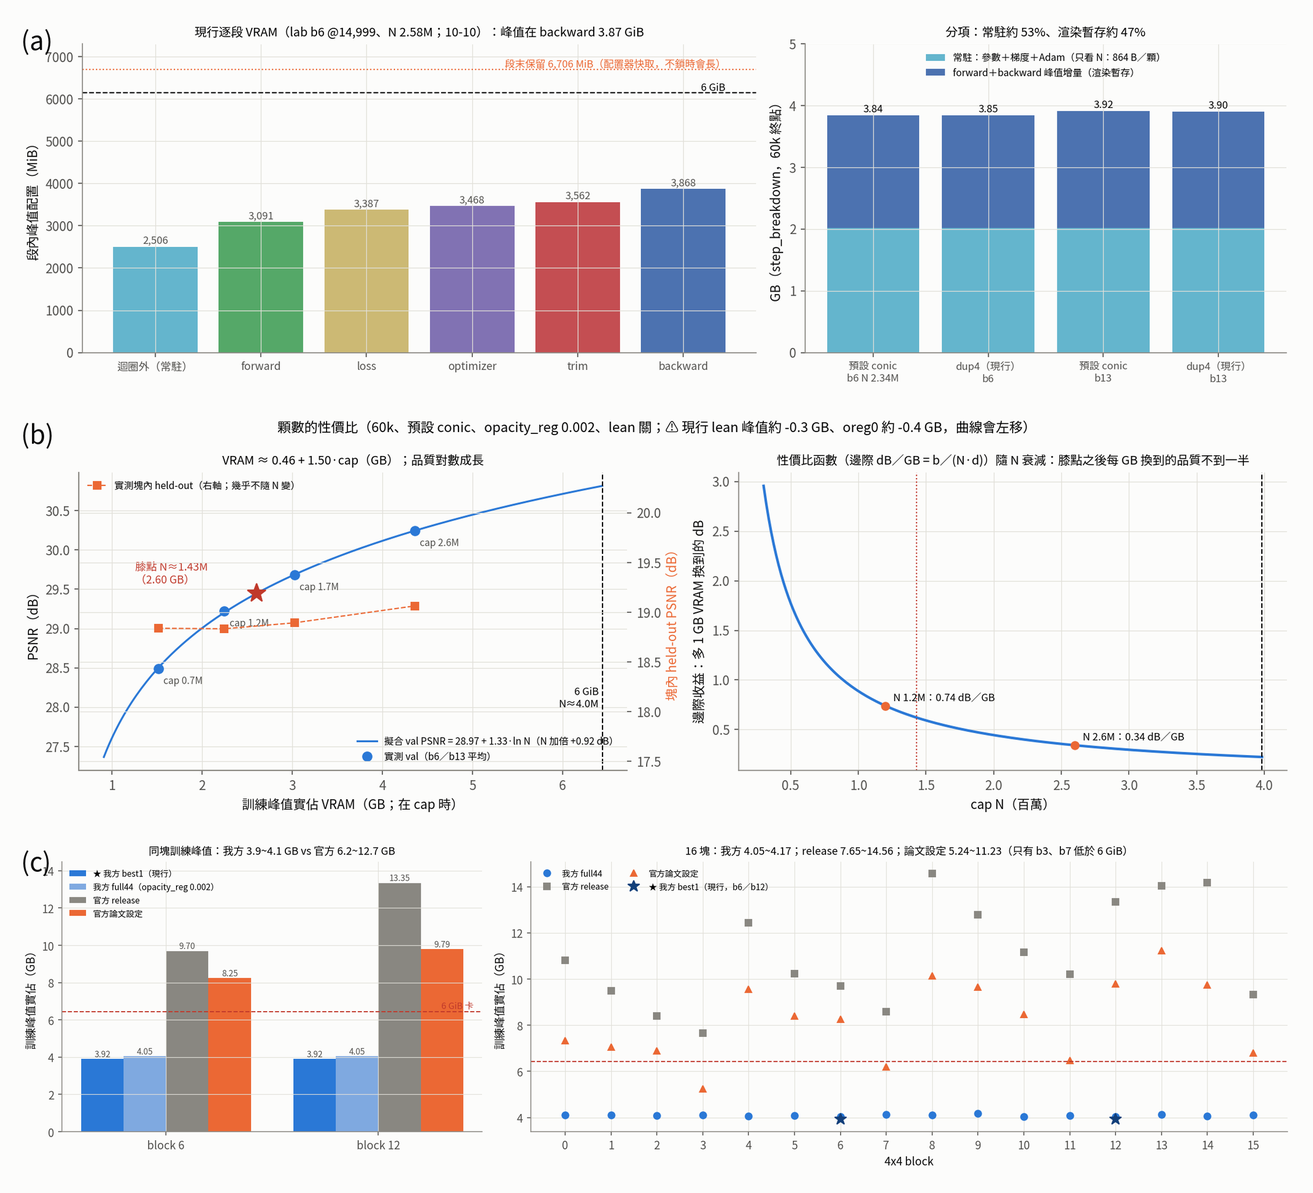
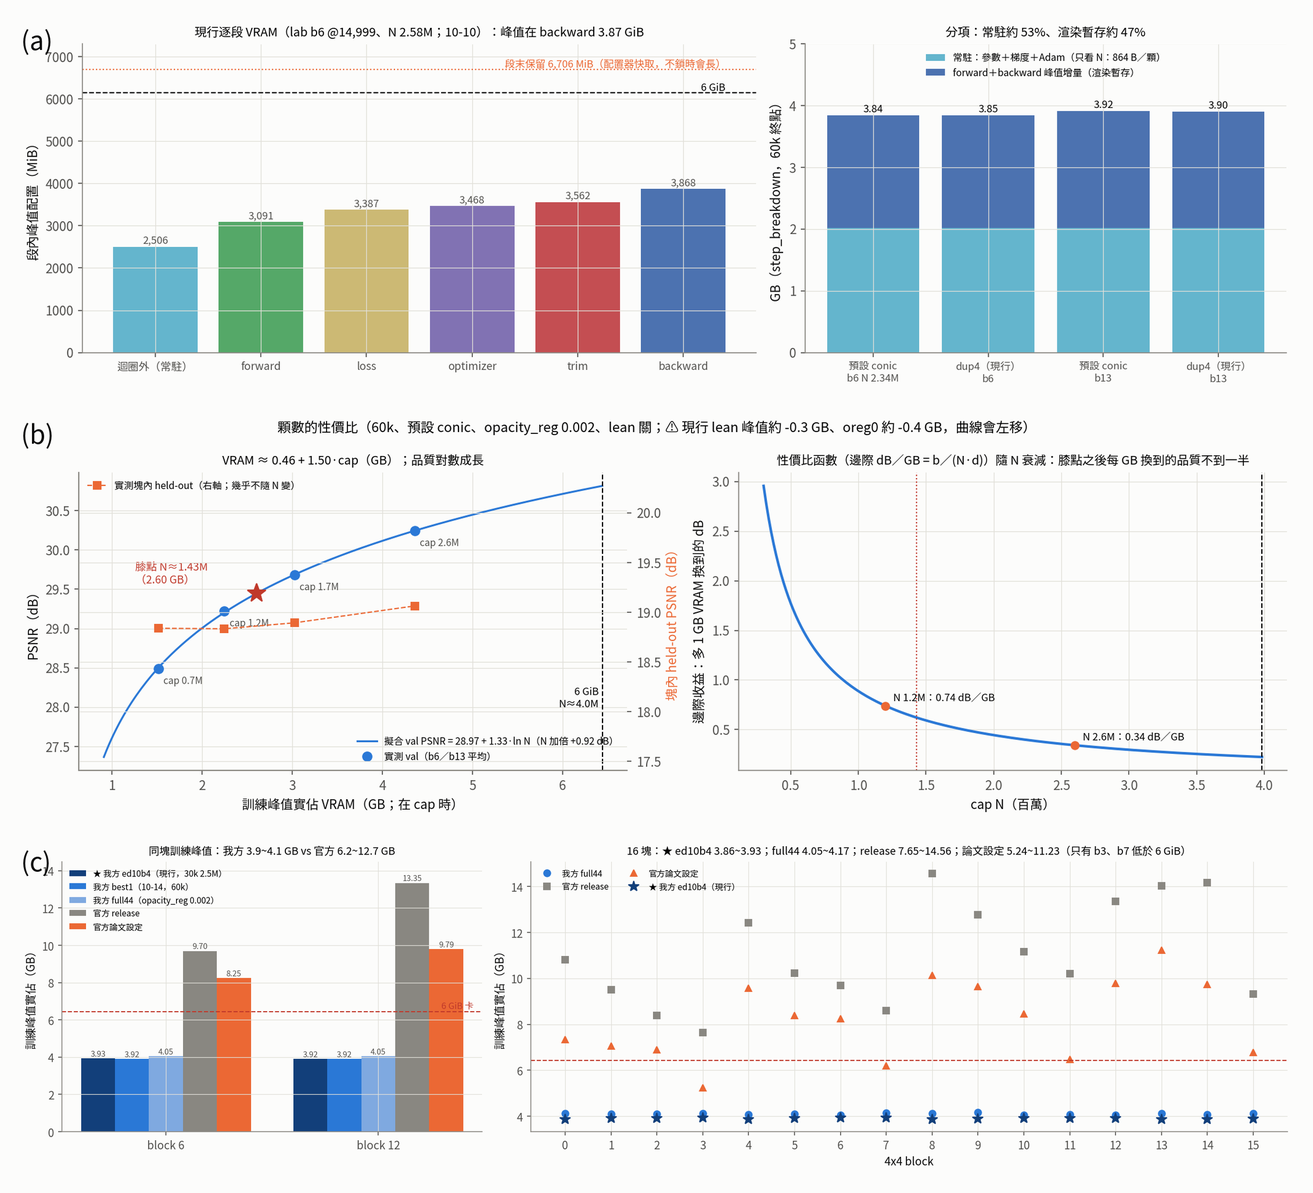
紀錄：時間／峰值／存儲表與圖加上現行最佳 ed10b4（01(d) 逐塊時間、02(c) 訓練峰值、03(d) 存儲、09(a) 合併模型、研究總覽對官方表）；部署 6.01 GiB＝release 的 1.79 倍照實列
Claude-Session: https://claude.ai/code/session_01ASvjmyPMC4F37W41o8s8Aq

diff --git a/tools/plot_analysis.py b/tools/plot_analysis.py
@@ -227,22 +227,23 @@ LBL3 = ["★ 我方 4x4", "官方 release", "官方論文設定"]
 
 def n09_full44_merged(d):
     """合併模型、官方 741 幀 held-out，三者同一支工具（tools/eval_official_test.py）。"""
-    q = {"PSNR": [27.739, 27.261, 27.280], "SSIM": [0.8790, 0.8671, 0.8697], "LPIPS（越低越好）": [0.1293, 0.1540, 0.1467]}
-    r = {"N（百萬）": [17.63, 24.48, 24.72], "渲染 FPS": [35.6, 21.9, 21.9],
-         "16 塊總 N（百萬）": [37.44, 129.55, 87.89]}
+    # ★ 10-24 加上現行最佳 ed10b4（g44s30km25_best1maskdistrfed10b4；實驗分析 20 §7）；16 塊總 N＝16 x 2.25M
+    q = {"PSNR": [27.868, 27.739, 27.261, 27.280], "SSIM": [0.8785, 0.8790, 0.8671, 0.8697], "LPIPS（越低越好）": [0.1153, 0.1293, 0.1540, 0.1467]}
+    r = {"N（百萬）": [27.83, 17.63, 24.48, 24.72], "渲染 FPS": [40.2, 35.6, 21.9, 21.9],
+         "16 塊總 N（百萬）": [36.0, 37.44, 129.55, 87.89]}
     fig, axs = plt.subplots(1, 6, figsize=(17, 3.6))
-    cols = [C1, MUTED, C2]
+    cols = ["#123f7a", C1, MUTED, C2]
     for ax, (k, v) in zip(axs, list(q.items()) + list(r.items())):
-        bars = ax.bar(range(3), v, color=cols, width=0.65)
+        bars = ax.bar(range(4), v, color=cols, width=0.7)
         fmt = "{:.3f}" if max(v) < 1 else ("{:.2f}" if max(v) < 50 else "{:.1f}")
         barlabels(ax, bars, fmt=fmt, size=8)
         lo = min(v); hi = max(v)
         if k in ("PSNR", "SSIM", "LPIPS（越低越好）"):
             ax.set_ylim(lo - (hi - lo) * 1.2, hi + (hi - lo) * 0.6)
-        ax.set_xticks(range(3)); ax.set_xticklabels(["我方", "release", "論文\n設定"], fontsize=8.5)
+        ax.set_xticks(range(4)); ax.set_xticklabels(["★ed10b4", "full44", "release", "論文\n設定"], fontsize=8)
         ax.set_title(k, fontsize=10)
-    fig.suptitle("合併模型・官方 741 幀 held-out（三者同一支評分工具）：我方三項全贏、顆數少 28%、FPS 1.6 倍"
-                 "　（PSNR 領先保守估計 +0.1~+0.5 dB：見面板 d 的光柵器偏差）", fontsize=10.5)
+    fig.suptitle("合併模型・官方 741 幀 held-out（同一支評分工具）：★ 現行 ed10b4 27.868／.8785／.1153、FPS 1.8 倍（30k、7.3 h）；full44 三項全贏官方、顆數少 28%"
+                 "\n（PSNR 領先保守估計：見面板 d 的光柵器偏差；ed10b4 顆數比 release 多 14%）", fontsize=10)
     save(fig, d, "n09_full44_merged.png")
 
 
@@ -872,25 +873,35 @@ LOAD44 = {
     "pap": [6.167, 5.117, 6.596, 5.273, 5.741, 6.653, 7.938, 6.273, 6.481, 7.697, 8.131, 6.909, 7.450, 8.776, 8.479, 6.643],
 }
 BEST0 = {"peak": {6: 3.95, 12: 3.92}, "load": {6: 1.893, 12: 1.859}}   # g44_best0 60k（台帳峰值實佔 GB；chart_data/load.txt ③ 中位，百萬）
-BEST1 = {"peak": {6: 3.92, 12: 3.92}, "load": {6: 1.259, 12: 1.212}}   # ★ 現行 g44_best1 60k（10-14 台帳峰值實佔；chart_data/load.txt 精確中位）
+BEST1 = {"peak": {6: 3.92, 12: 3.92}, "load": {6: 1.259, 12: 1.212}}   # g44_best1 60k（10-14 台帳峰值實佔；chart_data/load.txt 精確中位）
+# ★ 10-24 現行最佳 ed10b4 全場景（g44s30km25_best1maskdistrfed10b4：遮罩＋dist100＋30k＋cap 2.5M＋融合 Adam＋累加式 trim＋熵只往 0 推、10k 後切回 ×4）
+#   min＝純訓練（train_status val step0 → 30k，labrun/time_1024.py；與台帳 START→DONE 差 ≤1 分）；pk＝台帳峰值實佔 GB
+#   fs＝再加融合 SSIM（現行最快；只有 b0／b6 實測）
+ED = {"min": [1712 / 60, 1689 / 60, 1545 / 60, 1705 / 60, 1612 / 60, 1728 / 60, 1586 / 60, 1717 / 60,
+              1606 / 60, 1600 / 60, 1582 / 60, 1668 / 60, 1767 / 60, 1493 / 60, 1549 / 60, 1785 / 60],
+      "pk": [3.87, 3.92, 3.90, 3.93, 3.86, 3.90, 3.93, 3.93, 3.87, 3.89, 3.90, 3.90, 3.92, 3.87, 3.87, 3.89],
+      "fs_min": {0: 1501 / 60, 6: 1380 / 60}}
 
 
 def n01_blocktime(d):
     """逐塊訓練時間（4x4、60k、lab 3090）：我方 full44 vs 官方 release vs 論文設定（原 09(b) 右）。"""
-    x = np.arange(16); wd = 0.27
+    x = np.arange(16); wd = 0.21
     fig, ax = plt.subplots(figsize=(14, 3.8))
-    for k, c, dx, lb in [("omin", C1, -wd, "我方 full44（舊配方）"), ("rmin", MUTED, 0, LBL3[1]), ("pmin", C2, wd, LBL3[2])]:
+    ax.bar(x - 1.5 * wd, [m / 60 for m in ED["min"]], wd, color="#123f7a", label="★ 我方 ed10b4（現行最佳，30k）")
+    for k, c, dx, lb in [("omin", C1, -0.5 * wd, "我方 full44（10-05 舊配方，60k）"), ("rmin", MUTED, 0.5 * wd, LBL3[1]), ("pmin", C2, 1.5 * wd, LBL3[2])]:
         bars = ax.bar(x + dx, [m / 60 for m in F44[k]], wd, color=c, label=lb)
         if k != "omin":
             for b_, e in zip(bars, F44["rext" if k == "rmin" else "pext"]):
                 if e > 2000:
                     b_.set_hatch("///"); b_.set_alpha(0.45)
-    # ★ 10-15 現行 best1 b6 完整 60k 獨佔實測 68.0 分（`task_best1_time.sh full 6`，量測期間卡上無其他行程；`15` §2）
-    ax.plot([6 - wd], [68.0 / 60], marker="*", color="#123f7a", ms=16, lw=0, label="★ 我方 best1（現行，b6 實測 68 分）", zorder=5)
-    ax.annotate("68 分", (6 - wd, 68.0 / 60), xytext=(-6, -16), textcoords="offset points", fontsize=8, color="#123f7a", ha="center")
-    ax.set_xticks(x); ax.set_xlabel("4x4 block"); ax.set_ylabel("訓練時間（h）"); ax.legend(fontsize=8, loc="upper left")
-    ax.set_title("逐塊訓練時間（斜線＝期間同卡外部佔用 > 2 GB，不可引用）：block 0~9 乾淨的合計 我方 full44 19.3 h vs release 40.3 h（0.48 倍）\n"
-                 "★ 現行 best1 b6 實測 68 分 vs 同塊 release 240 分（0.28 倍）；長條的我方＝full44（opacity_reg 0.002 舊配方）", fontsize=9.5)
+    fb = sorted(ED["fs_min"])
+    ax.plot([b - 1.5 * wd for b in fb], [ED["fs_min"][b] / 60 for b in fb], marker="*", color="#e8a33d", ms=13, lw=0,
+            label="＋融合 SSIM（現行最快；b0／b6 實測）", zorder=5)
+    ax.set_xticks(x); ax.set_xlabel("4x4 block"); ax.set_ylabel("訓練時間（h）"); ax.legend(fontsize=8, loc="upper left", ncol=2)
+    e09 = sum(ED["min"][:10]) / 60
+    ax.set_title(f"逐塊訓練時間（斜線＝期間同卡外部佔用 > 2 GB，不可引用）：block 0~9 乾淨的合計 ★ ed10b4 {e09:.2f} h／full44 19.3 h／release 40.3 h"
+                 f"（ed10b4 是 release 的 {e09 / 40.3:.2f} 倍）\n"
+                 "16 塊合計 ed10b4 7.32 h（每塊 25~30 分）；＋融合 SSIM b6 23.0 分、b0 25.0 分（再 −13%／−12%）", fontsize=9.5)
     save(fig, d, "n01_blocktime.png")
 
 
@@ -898,12 +909,13 @@ def n02_peak3(d):
     """訓練峰值（GB）：現行 best1（b6／b12）、full44 舊配方、官方 release／論文設定（同塊）；16 塊全貌。"""
     fig, axs = plt.subplots(1, 2, figsize=(16, 4.3), gridspec_kw={"width_ratios": [1, 1.8]})
     ax = axs[0]
-    grp = [("★ 我方 best1（現行）", [BEST1["peak"][6], BEST1["peak"][12]], C1),
+    grp = [("★ 我方 ed10b4（現行，30k 2.5M）", [ED["pk"][6], ED["pk"][12]], "#123f7a"),
+           ("我方 best1（10-14，60k）", [BEST1["peak"][6], BEST1["peak"][12]], C1),
            ("我方 full44（opacity_reg 0.002）", [F44["opk"][6], F44["opk"][12]], "#7fa9e0"),
            ("官方 release", [F44["rpk"][6], F44["rpk"][12]], MUTED), ("官方論文設定", [F44["ppk"][6], F44["ppk"][12]], C2)]
-    x = np.arange(2); wd = 0.2
+    x = np.arange(2); wd = 0.16
     for k, (lb, v, c) in enumerate(grp):
-        barlabels(ax, ax.bar(x + (k - 1.5) * wd, v, wd, color=c, label=lb), "{:.2f}", size=7.5)
+        barlabels(ax, ax.bar(x + (k - 2) * wd, v, wd, color=c, label=lb), "{:.2f}", size=7)
     ax.axhline(6.44, color="#c0392b", lw=1, ls="--"); ax.text(1.45, 6.6, "6 GiB 卡", color="#c0392b", fontsize=8, ha="right")
     ax.set_xticks(x); ax.set_xticklabels(["block 6", "block 12"]); ax.set_ylabel("訓練峰值實佔（GB）"); ax.legend(fontsize=7.5, loc="upper left")
     ax.set_ylim(0, 14.5); ax.set_title("同塊訓練峰值：我方 3.9~4.1 GB vs 官方 6.2~12.7 GB", fontsize=9.5)
@@ -911,35 +923,36 @@ def n02_peak3(d):
     xx = np.arange(16)
     for k, c, mk, lb in [("opk", C1, "o", "我方 full44"), ("rpk", MUTED, "s", LBL3[1]), ("ppk", C2, "^", LBL3[2])]:
         ax.plot(xx, F44[k], marker=mk, color=c, lw=0, ms=6, label=lb)
-    ax.plot([6, 12], [BEST1["peak"][6], BEST1["peak"][12]], marker="*", color="#123f7a", lw=0, ms=11, label="★ 我方 best1（現行，b6／b12）")
+    ax.plot(xx, ED["pk"], marker="*", color="#123f7a", lw=0, ms=10, label="★ 我方 ed10b4（現行）")
     ax.axhline(6.44, color="#c0392b", lw=1, ls="--")
     ax.set_xticks(xx); ax.set_xlabel("4x4 block"); ax.set_ylabel("訓練峰值實佔（GB）"); ax.legend(fontsize=7.5, ncol=2)
-    ax.set_title("16 塊：我方 4.05~4.17；release 7.65~14.56；論文設定 5.24~11.23（只有 b3、b7 低於 6 GiB）", fontsize=9.5)
+    ax.set_title("16 塊：★ ed10b4 3.86~3.93；full44 4.05~4.17；release 7.65~14.56；論文設定 5.24~11.23（只有 b3、b7 低於 6 GiB）", fontsize=9.5)
     save(fig, d, "n02_peak3.png")
 
 
 def n03_official(d):
     """成果檔與部署大小：單塊 ckpt（b6）、合併 ckpt、部署（只算參數）——我方 vs 官方（`citygs_official_storage.log`）。"""
     fig, axs = plt.subplots(1, 3, figsize=(17, 4.2))
-    lab = ["★ 我方", "官方 release", "官方論文設定"]; col = [C1, MUTED, C2]
+    lab = ["★ 我方\ned10b4", "我方\nfull44", "官方\nrelease", "官方\n論文設定"]; col = ["#123f7a", C1, MUTED, C2]
     ax = axs[0]
-    v = [1.52, 3.0, 2.3]; n = [2.34, 7.11, 5.31]          # GiB（官方 storage log 的「GB」是 2^30；我方 1,628,658,586 B）
+    # GiB（官方 storage log 的「GB」是 2^30；full44 1,628,658,586 B；ed10b4 b6 30k ckpt 2.25M 顆 x 696 B，chart_data/storage.txt「1.5 GB」）
+    v = [2.25e6 * 696 / 2**30, 1.52, 3.0, 2.3]; n = [2.25, 2.34, 7.11, 5.31]
     b = ax.bar(lab, v, color=col); barlabels(ax, b, "{:.2f} GiB", size=8)
-    for i in range(3):
-        ax.text(i, v[i] / 2, f"N {n[i]:.2f}M\n{2**30 * v[i] / (n[i] * 1e6):.0f} B／顆", ha="center", color="white", fontsize=8)
-    ax.set_ylabel("GiB"); ax.set_title("單塊 60k ckpt（block 6；含 Adam）\n我方 SH3 696 B／顆；官方 SH2 456 B／顆（參數 148＋Adam 296＋緩衝 12）", fontsize=9)
+    for i in range(4):
+        ax.text(i, v[i] / 2, f"N {n[i]:.2f}M\n{2**30 * v[i] / (n[i] * 1e6):.0f} B／顆", ha="center", color="white", fontsize=7.5)
+    ax.set_ylabel("GiB"); ax.set_title("單塊 ckpt（block 6；含 Adam；ed10b4 30k、其餘 60k）\n我方 SH3 696 B／顆；官方 SH2 456 B／顆（參數 148＋Adam 296＋緩衝 12）", fontsize=9)
     ax = axs[1]
-    v = [11.43, 40.5, 29.0]; n = [17.63, 24.48, 24.72]    # GiB（我方 merged.ckpt 11,703 MiB）
+    v = [19371580895 / 2**30, 11.43, 40.5, 29.0]; n = [27.83, 17.63, 24.48, 24.72]    # GiB（ed10b4 merged.ckpt 19,371,580,895 B；full44 11,703 MiB）
     b = ax.bar(lab, v, color=col); barlabels(ax, b, "{:.1f} GiB", size=8)
-    ax.set_ylabel("GiB"); ax.set_title("合併 ckpt：官方合併時把 16 塊的優化器狀態一起疊進去（1,566 B／顆）\n=> 40.5 GiB 主要是 Adam，不是模型", fontsize=9)
+    ax.set_ylabel("GiB"); ax.set_title("合併 ckpt（含優化器狀態；我方只留各塊盒內顆粒）\n官方合併時把 16 塊的優化器狀態一起疊進去（1,566 B／顆）", fontsize=9)
     ax = axs[2]
-    per = [232, 148, 148]
-    v = [n[i] * 1e6 * per[i] / 2**30 for i in range(3)]
+    per = [232, 232, 148, 148]
+    v = [n[i] * 1e6 * per[i] / 2**30 for i in range(4)]
     b = ax.bar(lab, v, color=col); barlabels(ax, b, "{:.2f} GiB", size=8)
-    for i in range(3):
-        ax.text(i, v[i] / 2, f"{n[i]:.2f}M 顆\n× {per[i]} B", ha="center", color="white", fontsize=8)
-    ax.set_ylabel("GiB"); ax.set_title("部署（只存參數、float32）：⚠ 官方較小 —— SH2 每顆 148 B，我方 SH3 232 B\n（我方顆數少 28%，但每顆多 57%；SH 階數的取捨見佇列 sh2／1／0）", fontsize=9)
-    fig.suptitle("儲存對照官方（lab `citygs_official_storage.log`；我方 ckpt 實測檔案大小）；官方 CPU RAM 快取未量", fontsize=10)
+    for i in range(4):
+        ax.text(i, v[i] / 2, f"{n[i]:.2f}M 顆\n× {per[i]} B", ha="center", color="white", fontsize=7.5)
+    ax.set_ylabel("GiB"); ax.set_title("部署（只存參數、float32）：⚠ 官方較小 —— SH2 每顆 148 B，我方 SH3 232 B\n★ ed10b4 顆數 +14%、每顆 +57% => 部署是 release 的 1.79 倍（輕量化的待辦）", fontsize=9)
+    fig.suptitle("儲存對照官方（lab `citygs_official_storage.log`；我方 ckpt 實測檔案大小；ed10b4＝10-24 現行最佳）；官方 CPU RAM 快取未量", fontsize=10)
     save(fig, d, "n03_official.png")
 
 

diff --git a/紀錄/研究總覽.md b/紀錄/研究總覽.md
@@ -76,14 +76,16 @@ best1 60k               −0.05／−0.11       .1175／.1168   0.559／0.727   
 
 ### 對官方
 ```
-全場景（4x4 合併、官方 741 幀、同一支評分工具；⚠ 我方是 10-05 的舊配方 full44）
-                    PSNR    SSIM    LPIPS   合併 N    FPS    訓練峰值（16 塊）   訓練時間
-★ 我方 full44        27.739  0.879   0.129   17.63M   35.6   4.05~4.17 GB         19.3 h（block 0~9 乾淨）
-官方 release        27.261  0.867   0.154   24.48M   21.9   7.65~14.56 GB        40.3 h
-官方論文設定         27.280  0.870   0.147   24.72M   21.9   5.24~11.23 GB        b6 4.53 h／b12 5.98 h／b2 3.92 h（[solo] 重跑）
+全場景（4x4 合併、官方 741 幀、同一支評分工具；10-24 加上現行最佳 ed10b4，`20` §7）
+                    PSNR    SSIM    LPIPS   合併 N    FPS    訓練峰值（16 塊）   訓練時間（block 0~9 乾淨／16 塊）   部署（只存參數）
+★ 我方 ed10b4        27.868  0.8785  0.1153  27.83M   40.2   3.86~3.93 GB         4.58 h／7.32 h（30k）               6.01 GiB（SH3）
+我方 full44          27.739  0.879   0.129   17.63M   35.6   4.05~4.17 GB         19.3 h／30.7 h（60k）               3.81 GiB
+官方 release        27.261  0.867   0.154   24.48M   21.9   7.65~14.56 GB        40.3 h                              3.37 GiB（SH2）
+官方論文設定         27.280  0.870   0.147   24.72M   21.9   5.24~11.23 GB        b6 4.53 h／b12 5.98 h／b2 3.92 h（[solo] 重跑）   3.41 GiB（SH2）
 同塊（官方合併模型只換第 6／12 塊；`09` §6.2、`16` §3）
   15k＋SH1   +0.53／+0.54 dB、時間 13／12 分 vs 4.5／6.0 小時、峰值 2.08 vs 7.67／9.17 GB；幾何 F1 輸（0.441／0.653）
 ```
+- ed10b4：訓練時間 release 的 0.11 倍、峰值約一半以下、品質三項都贏；**部署是 release 的 1.79 倍**（顆數 +14%、SH3 vs SH2）＝唯一輸的資源項。再加融合 SSIM（現行最快）b6／b0 再 −13%／−12%。現行配方的每步逐段時間還沒量。
 - 官方光柵器在 8~13% 的視角把顏色算錯；我方光柵器讀官方模型正常幀約低 0.35 => 合理的 PSNR 領先約 +0.1~+0.5（全場景）、+0.2（同塊）；
   SSIM／LPIPS 與資源面的領先較穩 => `09` §0。
 

diff --git a/紀錄/實驗分析/01_訓練時間組成.md b/紀錄/實驗分析/01_訓練時間組成.md
@@ -12,7 +12,9 @@
 | (a) | 每步逐段時間（增生期；trim 按 500 步攤平）：官方 release／論文設定，加上我方近期改動逐步疊上（lean → record_reduce → 飽和跳過＋block 內先加總） | §0.1 |
 | (b) | 每步時間隨顆數線性成長（60k、只調 cap、b6／b13；lean 關）：固定項＋斜率 × N | §0.2 |
 | (c) | max_split_size_mb:128 的代價（本機兩列，09-11）與現行 lab（不鎖、不開）並列 | §0.3、`02` §2 |
-| (d) | 逐塊訓練時間（4x4、60k）：我方 full44 vs 官方 release／論文設定（原 `09`(b) 右；斜線＝同卡外部佔用 > 2 GB，不可引用）；★＝現行 best1 b6 實測 68 分（同塊 release 240 分，0.28 倍） | `09` §0.2、`15` §2 |
+| (d) | 逐塊訓練時間（4x4）：**★ 現行 ed10b4（30k）**、我方 full44（60k）vs 官方 release／論文設定（原 `09`(b) 右；斜線＝同卡外部佔用 > 2 GB，不可引用）；星號＝再加融合 SSIM（現行最快，b0／b6 實測） | `09` §0.2、`20` §7、`加速論文對照.md` §F |
+
+**10-24 更新 (d)：現行最佳 ed10b4（`20` §7）逐塊純訓練 24.9～29.8 分、16 塊 7.32 h；block 0~9 乾淨的合計 ed10b4 4.58 h vs full44 19.3 h vs release 40.3 h（0.11 倍）；同塊 b6 26.4 分 vs release 240 分（0.11 倍）。再加融合 SSIM（現行最快）b6 23.0 分、b0 25.0 分。現行配方的每步逐段時間（(a) 的格式）還沒量（逐段工具要中間 ckpt，ed10b4 只存最終）。**
 
 **10-14 對照官方（使用者要求：官方跑次的數據放進對應的我方圖表）**：**10-15 現行 best1 的乾淨計時 => `15` §2（一塊 60k 約 62.5／60.3 分鐘，best0 74.7／78.4）**。block 0~9 乾淨的合計 我方 19.3 h vs release 40.3 h（0.48 倍）。(a) 最後一列（飽和跳過＋先加總）的 60k 換塊評測已出：與 best0 平手（+0.01／+0.03）=> 可開。現行 best0 只有 b6／b12，且 10-12~14 期間同卡外部佔用時有時無 => 不列 best0 的時間。
 

diff --git a/紀錄/實驗分析/03_儲存與RAM.md b/紀錄/實驗分析/03_儲存與RAM.md
@@ -11,7 +11,9 @@
 | (a) | ckpt 的組成（10-10 更新為 60k 終點 N 2.34M：參數 0.506＋Adam 1.011 GiB）：2/3 是 Adam；參數裡主要是 SH 高階；幾何 40 B 合併成一格 | §1.1 |
 | (b) | 一個 60k 跑次目錄：中間 ckpt 佔大宗 | §1.2 |
 | (c) | CPU RAM 影像快取：舊預設每視角 25.6 MB → 現行 uint8＋不載深度 4.3 MB | §2 |
-| (d) | 對照官方：單塊 60k ckpt（b6）、合併 ckpt、部署大小（只存參數）—— 我方 vs release vs 論文設定（lab `citygs_official_storage.log`） | — |
+| (d) | 對照官方：單塊 ckpt（b6）、合併 ckpt、部署大小（只存參數）—— **★ 現行 ed10b4**、full44 vs release vs 論文設定（lab `citygs_official_storage.log`） | `20` §7 |
+
+**10-24 更新（現行最佳 ed10b4，`20` §7）**：單塊 ckpt（b6，30k）1.46 GiB（2.25M、696 B／顆：參數 232＋Adam 464；`chart_data/storage.txt`）；合併 ckpt 18.0 GiB（19,371,580,895 B，含 Adam；只留各塊盒內 27.83M 顆）；**部署（只存參數）27.83M × 232 B = 6.01 GiB，是 release（3.37 GiB）的 1.79 倍**（顆數 +14%、每顆 SH3 232 B vs 官方 SH2 148 B）=> 存儲是現行配方唯一輸官方的資源項；輕量化（1M 版或降 SH）待使用者決定。
 
 **10-14 對照官方（使用者要求：官方跑次的數據放進對應的我方圖表）**：單塊 ckpt 我方 1.52 GiB（2.34M、697 B／顆）vs release 3.00（7.11M、453 B／顆）；合併 ckpt 11.4 vs 40.5 GiB（官方把 16 塊的 Adam 疊進合併檔，1,566 B／顆）；**部署（只存參數）官方較小**：我方 17.63M × 232 B = 3.81 GiB vs release 24.48M × 148 B = 3.37 GiB —— 我方顆數少 28%，但 SH3 每顆多 57%（SH 階數的取捨＝佇列中的 sh2／1／0）。官方的 CPU RAM 快取未量。
 

diff --git a/紀錄/實驗分析/20_全場景遮罩回退與opacity.md b/紀錄/實驗分析/20_全場景遮罩回退與opacity.md
@@ -195,7 +195,9 @@ full44_best（舊最佳）     27.739   .8790   .1293              17.63M    35.
 - 逐塊（§2 的 ed 列）：16／16 塊贏，最小的是 b15 +0.035、b12 +0.043（b12 有水面，§結論的量測盲點）；對遮罩臂每塊 +0.11～+0.69。
 - 純訓練 +10.3%（對遮罩臂），與 b0 量到的 +11.2% 一致；FPS 40.2 比舊最佳快（推測：二元熵讓 o 兩極化 => 飽和早停較早；未量）。
 - NaN：`tools/ckpt_nonfinite.py` 16 塊每塊 N 2,250,000、參數全有限（修正前遮罩臂 b1 有 15,234 顆 NaN scale）。
-- 代價：合併 N 比舊最佳多 58%（部署體積）。輕量化（1M 版的 ed10b4）待使用者決定。
+- 資源（10-24 補，圖 `01`(d)、`02`(c)、`03`(d)、`09`(a) 已加 ed10b4）：訓練峰值實佔 **3.86~3.93 GB**（16 塊，台帳；full44 4.05~4.17、release 7.65~14.56）；單塊 ckpt 1.46 GiB（2.25M × 696 B）；合併 ckpt 18.0 GiB（含 Adam）；**部署（只存參數）6.01 GiB＝release 3.37 GiB 的 1.79 倍**（顆數 +14%、SH3 每顆 232 B vs 官方 SH2 148 B）；渲染評測峰值 9.75 GiB（> 6 GiB 卡，合併模型整個載入時）。
+- 時間口徑：純訓練（val step0 → 30k）與台帳 START→DONE 一致（16 塊合計 440 分 vs 7.32 h）；block 0~9 合計 4.58 h vs release 40.3 h（0.11 倍）、full44 19.3 h。
+- 代價：合併 N 比舊最佳多 58%、部署是官方 release 的 1.79 倍。輕量化（1M 版的 ed10b4 或降 SH）待使用者決定。
 - 後續（加速，`加速論文對照.md` §F）：融合 SSIM 在 b6／b0 純訓練 −13%／−12%、品質不變 => 採用；第二輪組合在跑，定案後再跑一次全場景。
 
 ## 限制

diff --git a/紀錄/實驗分析/02_VRAM與配置器.md b/紀錄/實驗分析/02_VRAM與配置器.md
@@ -10,7 +10,9 @@
 |---|---|---|
 | (a) | 現行逐段 VRAM（峰值在 backward）；常駐 vs 渲染暫存分項 | §0.1 |
 | (b) | 顆數的性價比：val PSNR 對訓練峰值 VRAM 的擬合、膝點、邊際 dB／GB 函數 | §0.2 |
-| (c) | 訓練峰值實佔：左＝同塊（b6／b12）現行 best1、full44 舊配方、官方 release、論文設定；右＝16 塊全貌（原 `09`(b) 中） | `09` §0.2 |
+| (c) | 訓練峰值實佔：左＝同塊（b6／b12）**★ 現行 ed10b4**、best1、full44 舊配方、官方 release、論文設定；右＝16 塊全貌（原 `09`(b) 中） | `09` §0.2、`20` §7 |
+
+**10-24 更新**：現行最佳 ed10b4（30k、cap 2.5M、遮罩）16 塊訓練峰值實佔 **3.86~3.93 GB**（b6／b12 3.93／3.92；台帳），比 full44 的 4.05~4.17 低；官方 release 7.65~14.56。
 
 **10-14 對照官方（使用者要求：官方跑次的數據放進對應的我方圖表）**：同塊峰值 **現行 best1 3.92／3.92 GB**（best0 3.95／3.92）、full44 4.05／4.05 vs release 9.70／13.35、論文設定 8.25／9.79；16 塊我方 4.05~4.17 vs release 7.65~14.56、論文設定 5.24~11.23（只有 b3、b7 低於 6 GiB）。
 

diff --git a/紀錄/實驗分析/09_官方參考線.md b/紀錄/實驗分析/09_官方參考線.md
@@ -58,7 +58,8 @@ release  官方 cityGS_origin 未改原始碼＋gspl_official，sh2、coarse -> 
 
 | | PSNR | SSIM | LPIPS | N | 渲染 | 渲染峰值配置 |
 |---|---:|---:|---:|---:|---:|---:|
-| **★ 我方 4x4** | **27.739** | **0.8790** | **0.1293** | **17.63M** | **28.1 ms（35.6 FPS）** | 6.32 GiB |
+| **★ 我方 ed10b4（10-24 現行最佳；`20` §7）** | **27.868** | 0.8785 | **0.1153** | 27.83M | **24.9 ms（40.2 FPS）** | 9.75 GiB |
+| 我方 full44（10-05 舊配方） | 27.739 | **0.8790** | 0.1293 | **17.63M** | 28.1 ms（35.6 FPS） | 6.32 GiB |
 | 官方 release | 27.261 | 0.8671 | 0.1540 | 24.48M | 45.6 ms（21.9 FPS） | 7.08 GiB |
 | 官方論文設定 | 27.280 | 0.8697 | 0.1467 | 24.72M | 45.8 ms（21.9 FPS） | 7.13 GiB |
 | （官方工具量 release） | 25.79 | 0.833 | 0.176 | | 88 ms | 11.9 GB |
